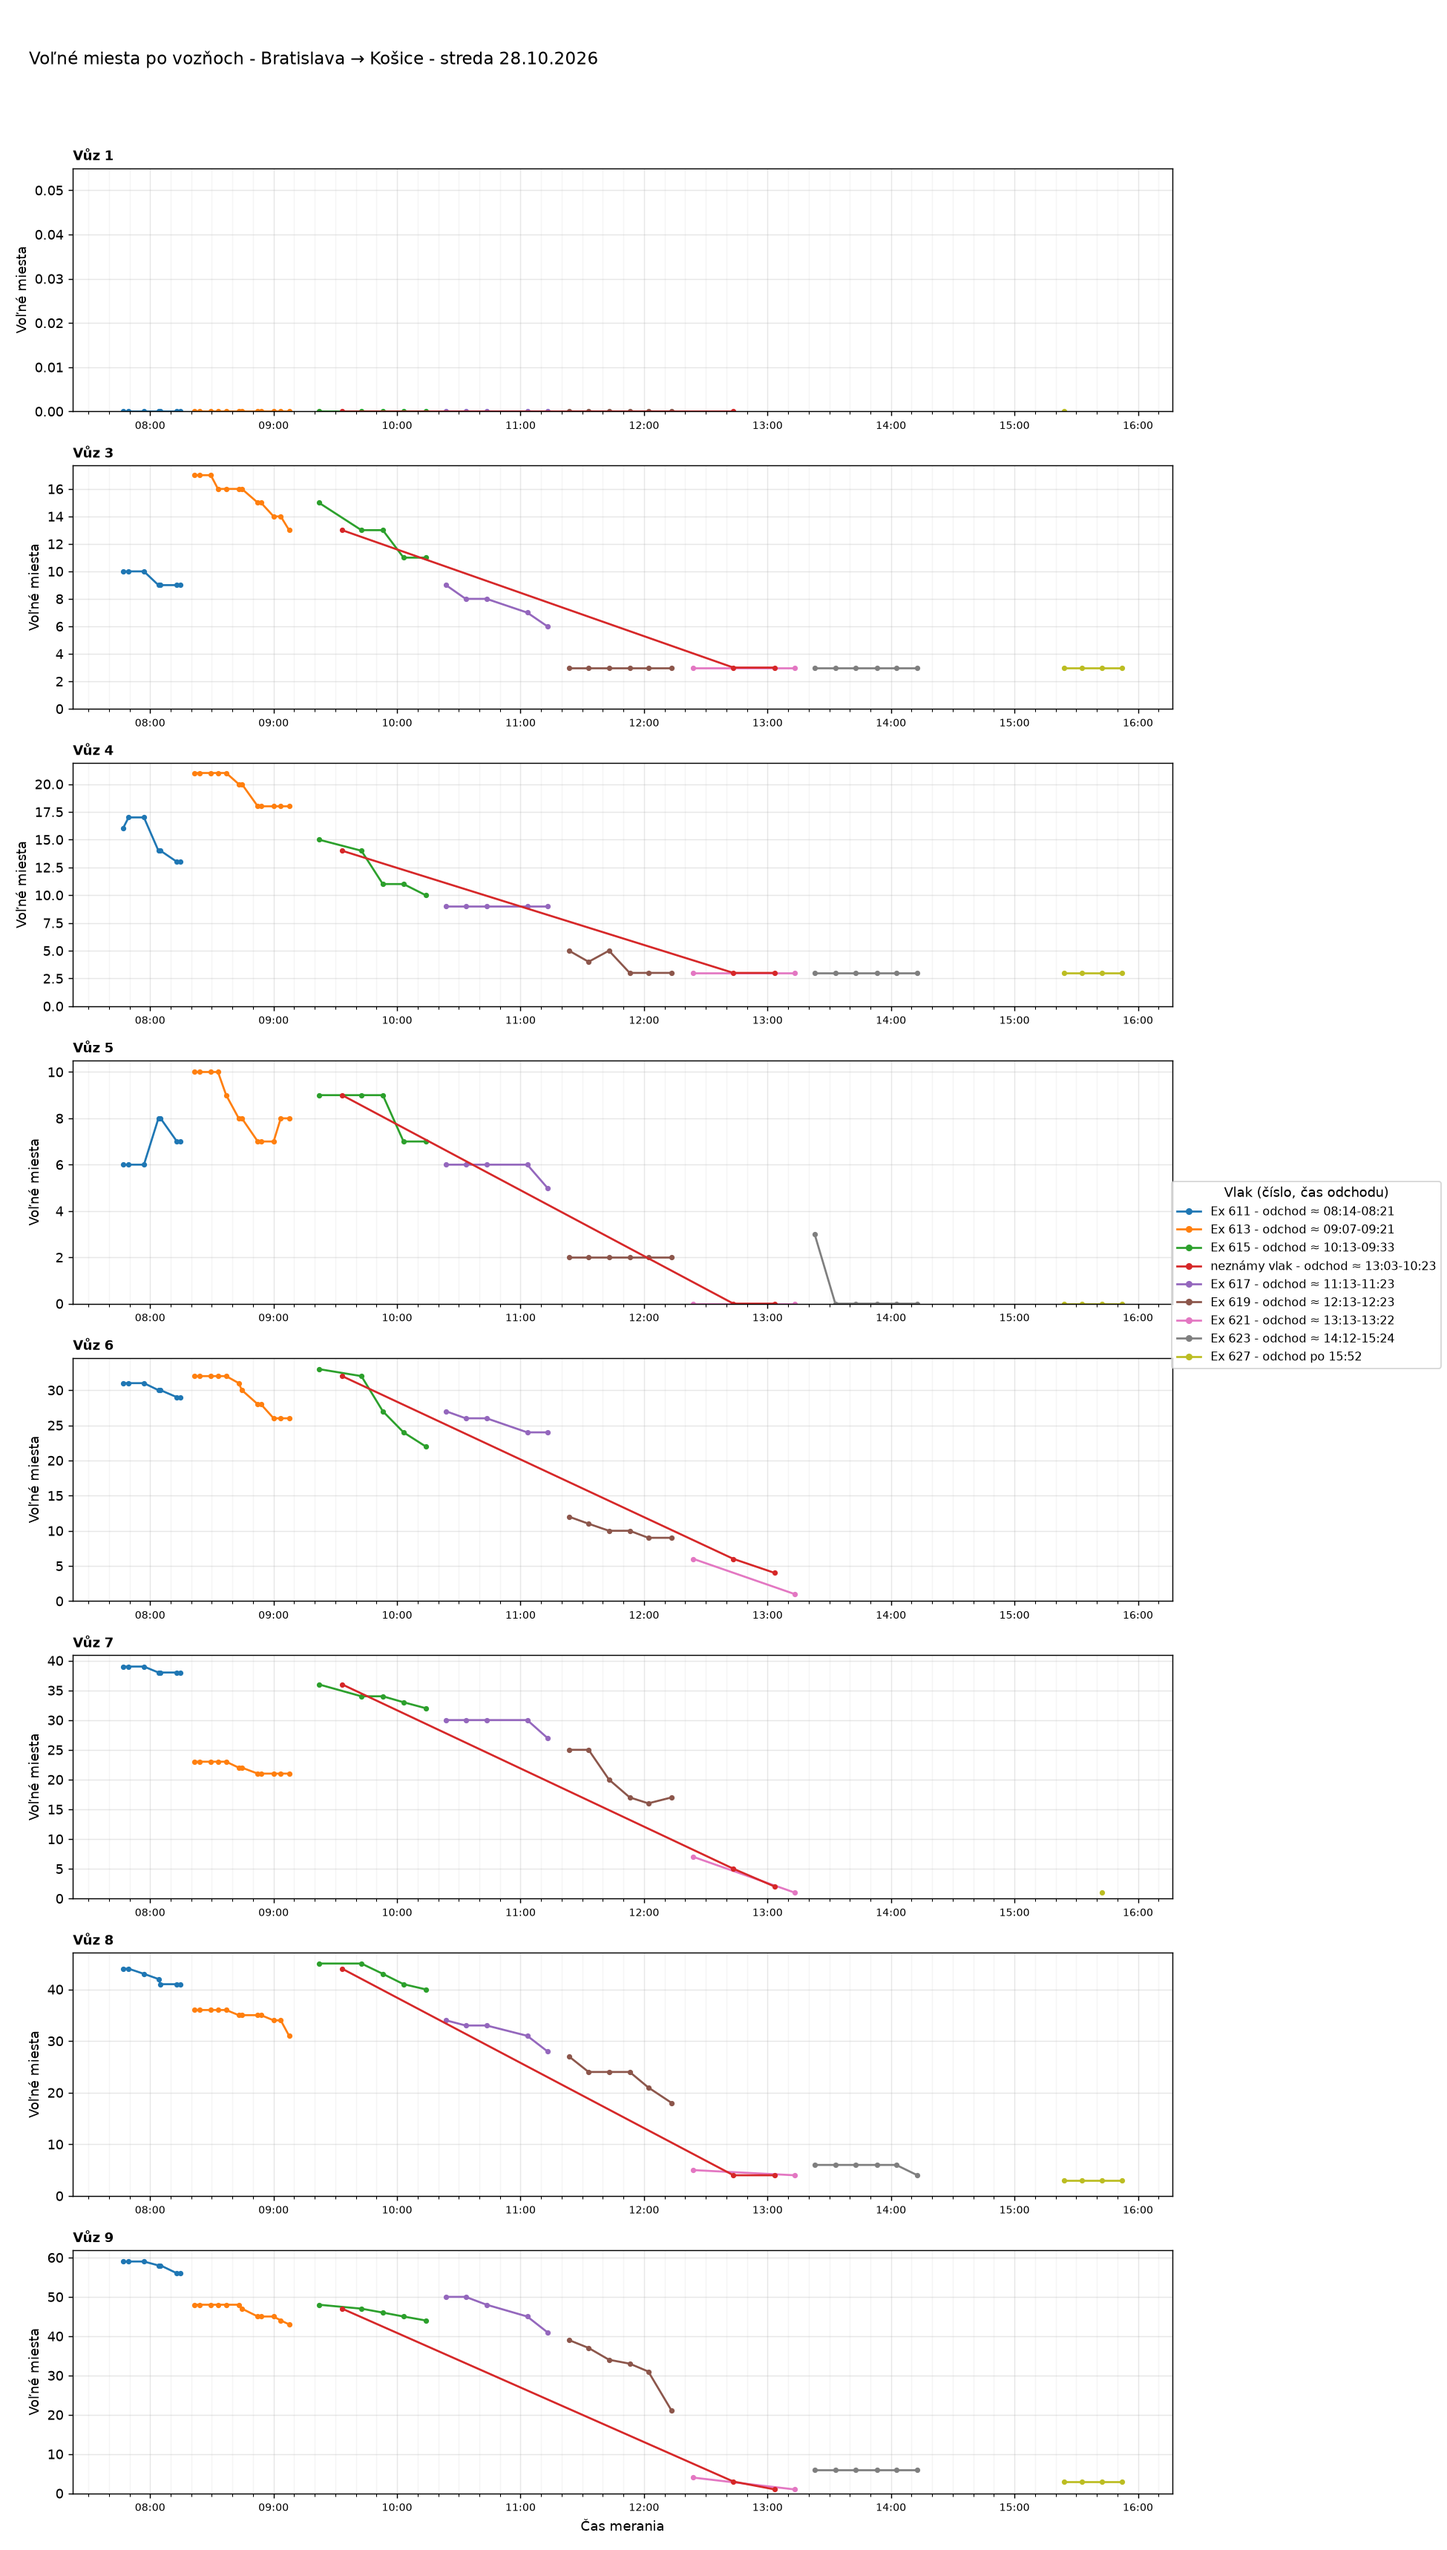
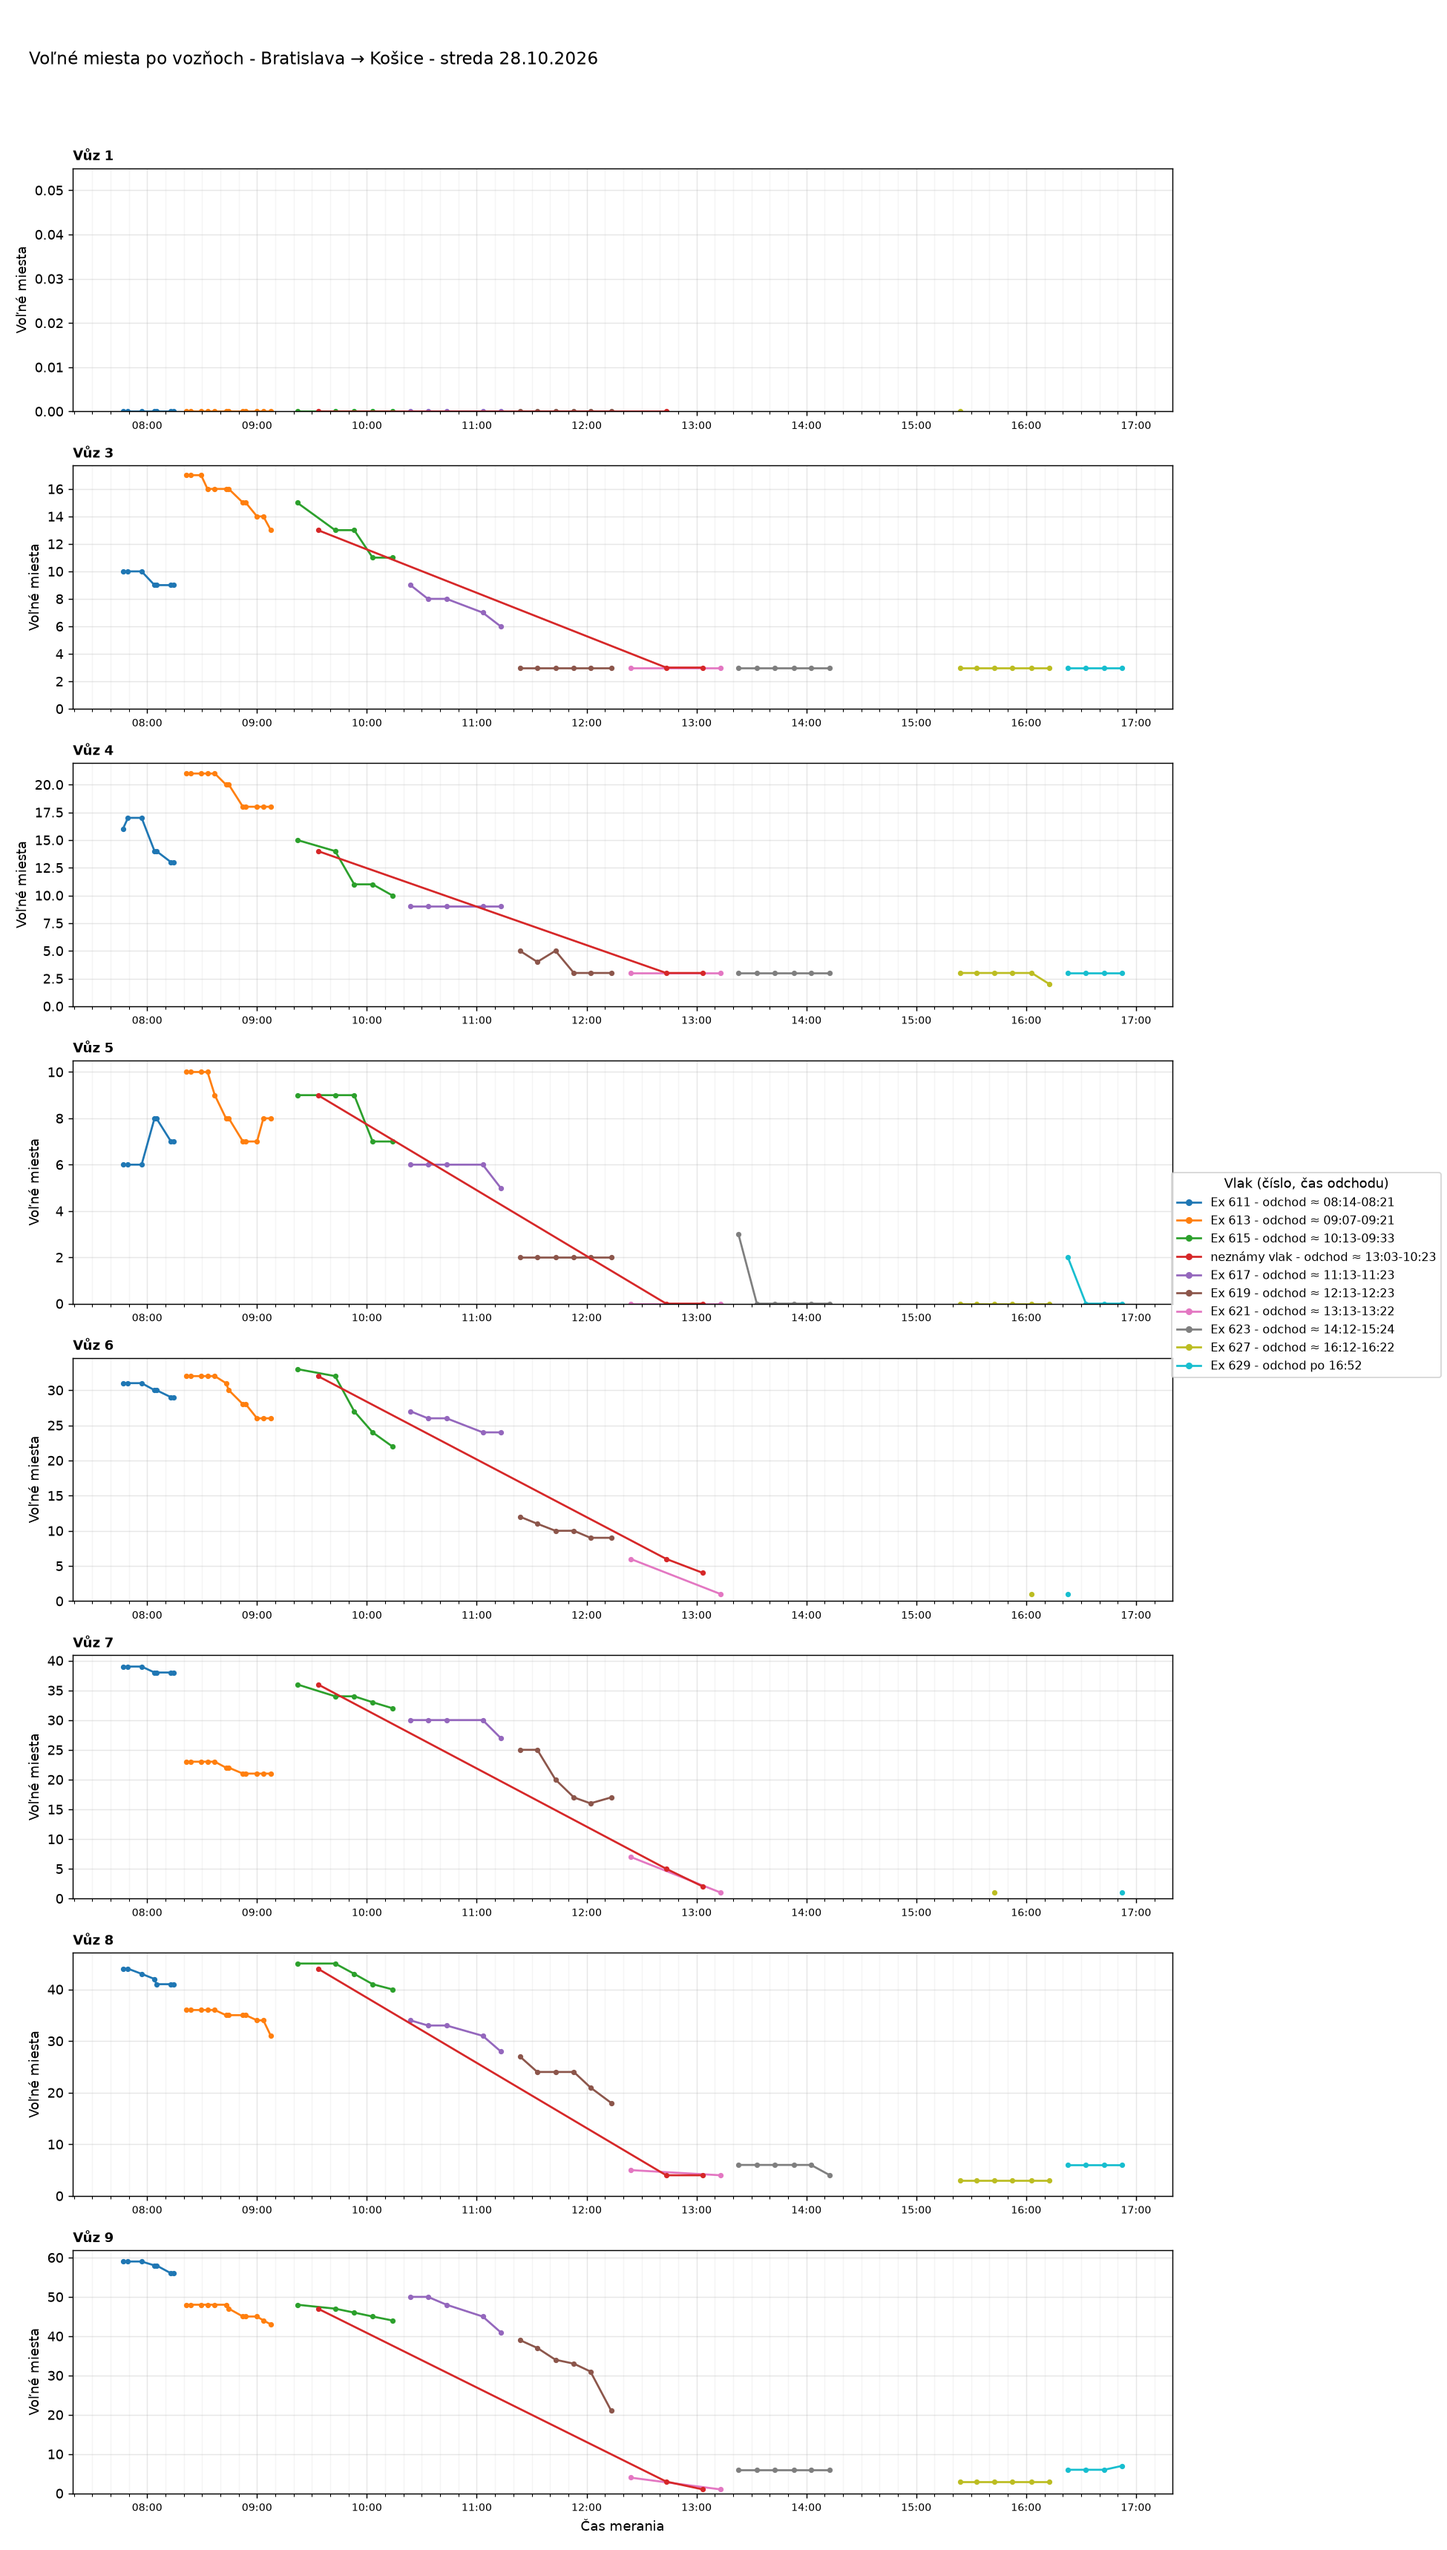
Aktualizácia grafov 2026-10-28 17:03

diff --git a/index.html b/index.html
@@ -37,7 +37,7 @@ details.trasa>summary{cursor:pointer;font-weight:600;font-size:1.1rem;padding:8p
 <body>
 <main>
 <h1>Voľné miesta vo vlakoch</h1>
-<p class="muted">Posledné meranie: 28.10.2026 15:53 ·
+<p class="muted">Posledné meranie: 28.10.2026 16:52 ·
 <a href="data/obsadenost_data.csv">stiahnuť dáta (CSV)</a></p>
 <nav class="nav"><a href="#suhrn">Súhrn</a><a href="#statistiky">Štatistiky</a><a href="#historia">História grafov</a></nav>
 
@@ -46,9 +46,9 @@ details.trasa>summary{cursor:pointer;font-weight:600;font-size:1.1rem;padding:8p
 <div class="tablewrap"><table>
 <thead><tr><th>Deň</th><th>Trasa</th><th>Meraní</th><th>Vlakov</th><th>Čas meraní</th></tr></thead>
 <tbody>
-<tr><td><a href="#dBA-VR-2026-10-28">streda 28.10.2026</a></td><td>Bratislava → Vrútky</td><td>125</td><td>12</td><td>00:03-15:41</td></tr>
-<tr><td><a href="#dVR-BA-2026-10-28">streda 28.10.2026</a></td><td>Vrútky → Bratislava</td><td>46</td><td>9</td><td>08:02-15:32</td></tr>
-<tr><td><a href="#dBA-KE-2026-10-28">streda 28.10.2026</a></td><td>Bratislava → Košice</td><td>50</td><td>9</td><td>07:46-15:52</td></tr>
+<tr><td><a href="#dBA-VR-2026-10-28">streda 28.10.2026</a></td><td>Bratislava → Vrútky</td><td>131</td><td>13</td><td>00:03-16:51</td></tr>
+<tr><td><a href="#dVR-BA-2026-10-28">streda 28.10.2026</a></td><td>Vrútky → Bratislava</td><td>51</td><td>10</td><td>08:02-16:42</td></tr>
+<tr><td><a href="#dBA-KE-2026-10-28">streda 28.10.2026</a></td><td>Bratislava → Košice</td><td>56</td><td>10</td><td>07:46-16:52</td></tr>
 <tr><td><a href="#dKE-BA-2026-10-28">streda 28.10.2026</a></td><td>Košice → Bratislava</td><td>49</td><td>9</td><td>07:47-15:53</td></tr>
 <tr><td><a href="#dBA-VR-2026-10-27">utorok 27.10.2026</a></td><td>Bratislava → Vrútky</td><td>99</td><td>11</td><td>00:01-23:59</td></tr>
 <tr><td><a href="#dBA-VR-2026-10-26">pondelok 26.10.2026</a></td><td>Bratislava → Vrútky</td><td>88</td><td>14</td><td>00:06-23:50</td></tr>
